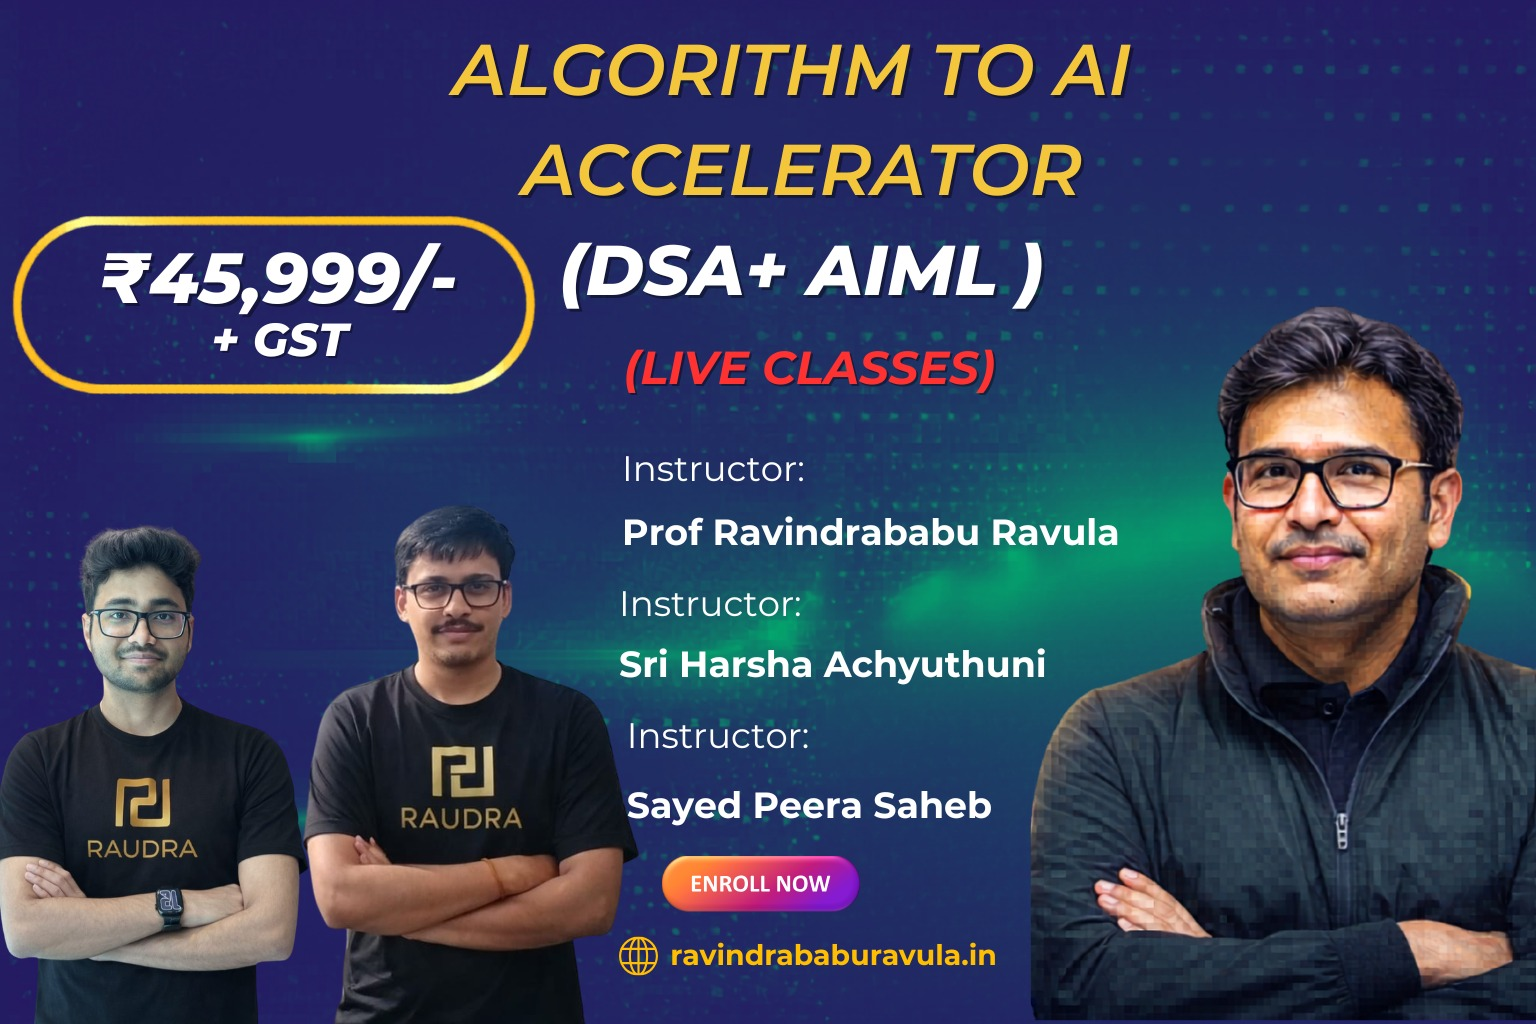
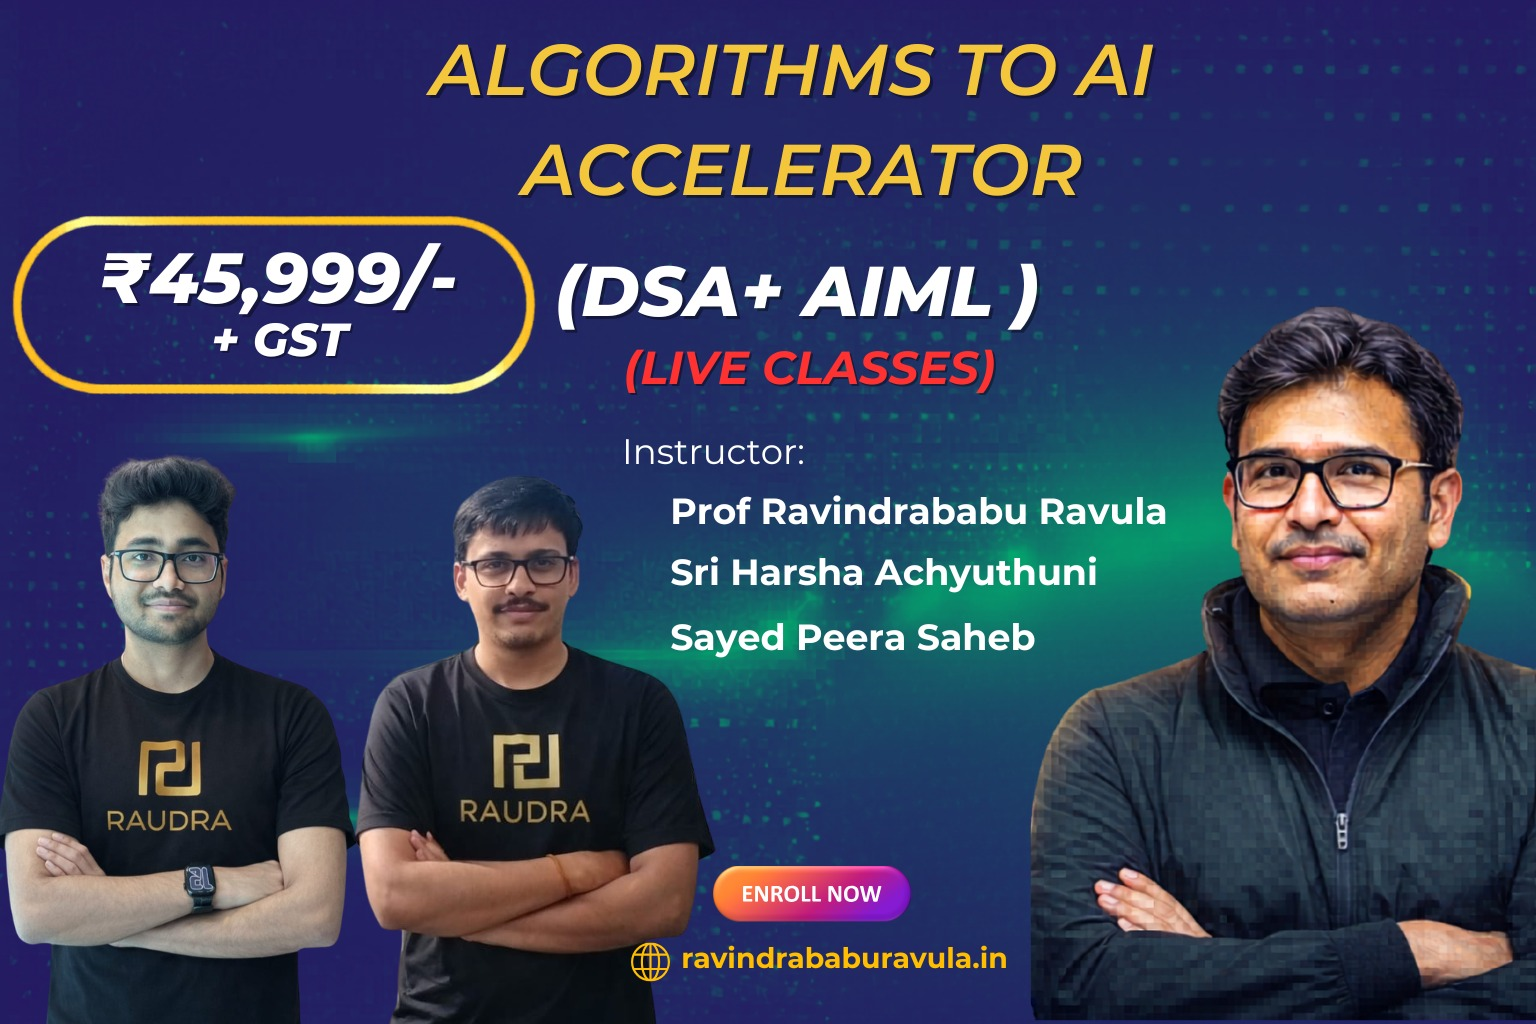
fix: Add correct DA Core, test series, and accelerator course images
- Add gate-da-core-2027/2028/2029.jpg (proper DA thumbnails)
- Add gate-cs-test-series-2027.jpg and gate-da-test-series-2027.jpg
- Update algorithms-to-ai.jpg with new thumbnail
- Re-enable test series banner images in course cards

Changed region(s): [[0.0, 0.4375, 0.7812, 1.0], [0.3438, 0.2188, 0.6875, 0.3438], [0.2812, 0.0312, 0.75, 0.0938]]

diff --git a/src/CoursesPage.jsx b/src/CoursesPage.jsx
@@ -779,7 +779,7 @@ const CATEGORIES = [
       {
         id: 11, tag: "GATE CS", title: "GATE CS 2027 Test Series",
         subtitle: "Prof Ravindrababu Ravula",
-        image: "",
+        image: "/courses/gate-cs-test-series-2027.jpg",
         link: "https://courses.ravindrababuravula.in/test-series/1-gate-cs-2027-test-series?subjectId=-1",
         description: "A structured test series designed to simulate the actual GATE exam environment, allowing you to practice under exam conditions and assess your performance regularly.",
         highlights: ["Full-Length Mocks", "Subject-wise Tests", "Detailed Analysis", "Performance Tracking"],
@@ -798,7 +798,7 @@ const CATEGORIES = [
       {
         id: 12, tag: "GATE DA", title: "GATE DA 2027 Test Series",
         subtitle: "Prof Ravindrababu Ravula",
-        image: "",
+        image: "/courses/gate-da-test-series-2027.jpg",
         link: "https://courses.ravindrababuravula.in/test-series/2-gate-da-2027-test-series?subjectId=-1",
         description: "A structured test series designed to help you evaluate your preparation, improve accuracy, and build confidence for GATE Data Science & AI 2027.",
         highlights: ["Full-Length Mocks", "Subject-wise Tests", "Detailed Analysis", "Performance Tracking"],
